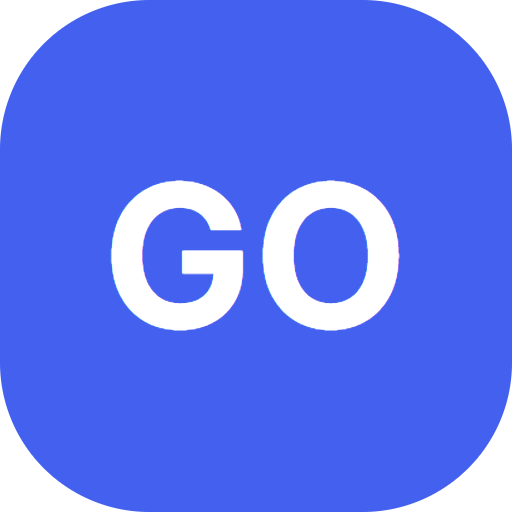
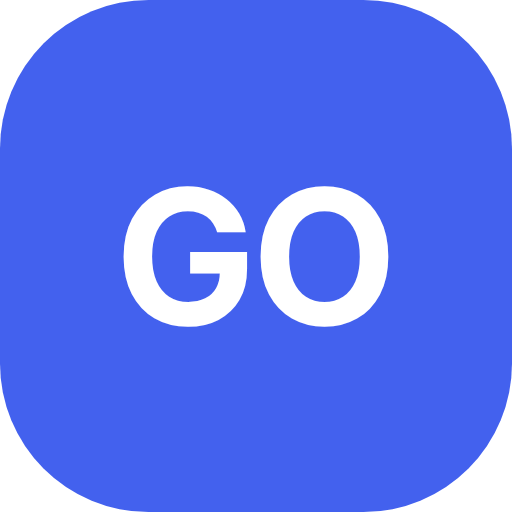
Arreglar el selector de país en iPhone y ajustar los íconos al manual
- Selector de país e idioma: guarda la elección en la cookie GOADMIN_MARKET y
  recarga la página en el mercado elegido (antes usaba navegación del cliente,
  que en Safari de iPhone no cambiaba de mercado)
- Horas y montos de los ejemplos sin espacios especiales de Intl: el servidor y
  el navegador los formateaban distinto y React volvía a pintar todo el documento
- Favicon (16, 32 y 48 px), ícono de 512 px, íconos de la app (192/512) y de
  Apple regenerados según el Manual v2.0: azul GO plano, radio 0,29x y GO en
  Inter 700 a 0,52x de ancho

Claude-Session: https://claude.ai/code/session_019U82ibZrEn8qmzvqQRnnyw

Changed region(s): [[0.2188, 0.3438, 0.5312, 0.6562], [0.5625, 0.3438, 0.7812, 0.6562], [0.5312, 0.375, 0.5625, 0.4062]]

diff --git a/components/site/market-switcher.tsx b/components/site/market-switcher.tsx
@@ -5,7 +5,7 @@ import { createPortal } from 'react-dom'
 import { AnimatePresence, motion } from 'framer-motion'
 import { Check, Globe, X } from 'lucide-react'
 import { useLocale } from 'next-intl'
-import { Link, usePathname } from '@/i18n/navigation'
+import { getPathname, usePathname } from '@/i18n/navigation'
 import { COUNTRIES, LANGUAGE_NAMES, MARKETS, MARKET_IDS, getMarket, type CountryCode, type MarketId } from '@/i18n/markets'
 import { useT } from '@/i18n/t'
 import { cn } from '@/lib/utils'
@@ -38,6 +38,21 @@ export function MarketSwitcher({ tone = 'light', className }: { tone?: 'light' |
   }, [open])
 
   const label = `${current.countryData.iso2} · ${lang.toUpperCase()}`
+
+  /**
+   * Guarda la elección en la cookie GOADMIN_MARKET y recarga la página en el mercado elegido.
+   * Carga completa (no navegación del cliente): cambian idioma, moneda y textos fiscales, y así
+   * funciona igual en Safari de iPhone. La cookie evita que el middleware devuelva a la persona
+   * al mercado anterior o al de su país (p. ej. al volver a Colombia, que no lleva prefijo).
+   */
+  const choose = (e: React.MouseEvent<HTMLAnchorElement>, id: MarketId) => {
+    if (e.metaKey || e.ctrlKey || e.shiftKey || e.button !== 0) return
+    e.preventDefault()
+    document.cookie = `GOADMIN_MARKET=${id}; path=/; max-age=31536000; SameSite=Lax`
+    setOpen(false)
+    if (id === locale) return
+    window.location.assign(e.currentTarget.href)
+  }
 
   return (
     <>
@@ -120,21 +135,20 @@ export function MarketSwitcher({ tone = 'light', className }: { tone?: 'light' |
                               {markets.map((id) => {
                                 const selected = id === locale
                                 return (
-                                  <Link
+                                  <a
                                     key={id}
-                                    href={pathname}
-                                    locale={id}
+                                    href={getPathname({ href: pathname, locale: id })}
                                     hrefLang={id}
-                                    onClick={() => setOpen(false)}
+                                    onClick={(e) => choose(e, id)}
                                     aria-current={selected ? 'true' : undefined}
                                     className={cn(
-                                      'inline-flex items-center gap-1.5 rounded-full px-3 py-1.5 text-sm transition-colors',
+                                      'inline-flex min-h-11 items-center gap-1.5 rounded-full px-4 py-2 text-sm transition-colors',
                                       selected ? 'bg-go text-white' : 'bg-slate-100 text-ink hover:bg-go-tint',
                                     )}
                                   >
                                     {selected ? <Check className="h-3.5 w-3.5" strokeWidth={2} aria-hidden /> : null}
                                     <span lang={MARKETS[id].language}>{LANGUAGE_NAMES[MARKETS[id].language]}</span>
-                                  </Link>
+                                  </a>
                                 )
                               })}
                             </div>

diff --git a/components/sections/product-mock.tsx b/components/sections/product-mock.tsx
@@ -6,10 +6,21 @@ import { formatLocal, getMarket, sampleAmount, sampleDomain, sampleValue } from 
 import { useT } from '@/i18n/t'
 import { cn } from '@/lib/utils'
 
-/** Hora local del mercado (7:00 p. m. / 7:00 PM / 19:00). */
+/**
+ * Hora local del mercado (7:00 p. m. / 7:00 PM / 19:00 / 19 h 00).
+ * Sin Intl: el servidor (Node) y cada navegador formatean la hora con espacios distintos y eso
+ * rompe la hidratación de React (el documento se vuelve a pintar en el cliente).
+ */
 function useTime() {
-  const locale = useLocale()
-  return (h: number, m = 0) => new Date(2000, 0, 1, h, m).toLocaleTimeString(locale, { hour: 'numeric', minute: '2-digit' })
+  const lang = getMarket(useLocale()).language
+  return (h: number, m = 0) => {
+    const mm = String(m).padStart(2, '0')
+    const h12 = h % 12 || 12
+    if (lang === 'es') return `${h12}:${mm} ${h < 12 ? 'a. m.' : 'p. m.'}`
+    if (lang === 'en') return `${h12}:${mm} ${h < 12 ? 'AM' : 'PM'}`
+    if (lang === 'fr') return `${h} h ${mm}`
+    return `${String(h).padStart(2, '0')}:${mm}`
+  }
 }
 /** Monto de ejemplo en la moneda del país (el valor base está pensado en pesos colombianos). */
 function useMoney() {

diff --git a/i18n/markets.ts b/i18n/markets.ts
@@ -335,7 +335,8 @@ export function formatLocal(id: string, value: number) {
   const m = getMarket(id)
   return new Intl.NumberFormat(m.id, { style: 'currency', currency: m.countryData.currency, currencyDisplay: 'narrowSymbol', maximumFractionDigits: 0 })
     .format(value)
-    .replace(/\u00a0/g, ' ')
+    // Espacios normales: Node y los navegadores usan espacios especiales distintos (hidratación).
+    .replace(/[\u00a0\u202f]/g, ' ')
 }
 
 /**

diff --git a/lib/site.ts b/lib/site.ts
@@ -154,7 +154,7 @@ export function formatPrice(value: number, currency: 'COP' | 'USD', locale: stri
     maximumFractionDigits: 0,
   })
     .format(value)
-    .replace(/ /g, ' ')
+    .replace(/[\u00a0\u202f]/g, ' ')
 }
 
 /** Números con el separador de miles del mercado (1.000 / 1,000). */
